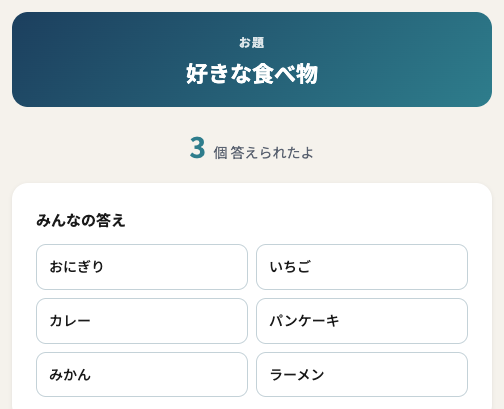
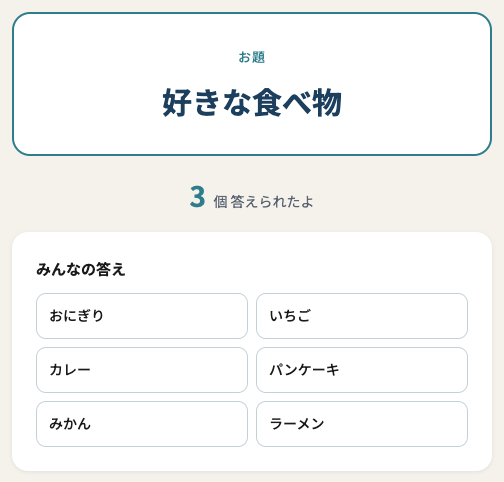
style: お題表示に合わせてサムネイルを更新

diff --git a/apps/index.html b/apps/index.html
@@ -551,7 +551,7 @@
         <a class="app-card" href="kotoba-mikke/" data-scenes="kotoba hiroba circle">
           <div class="app-card__icon">
             <span class="material-symbols-rounded" aria-hidden="true">search</span>
-            <img class="app-card__thumbnail" src="assets/thumbnails/kotoba-mikke.png" alt="頭文字とテーマを組み合わせたお題" width="544" height="217" loading="lazy" decoding="async" />
+            <img class="app-card__thumbnail" src="assets/thumbnails/kotoba-mikke.png" alt="頭文字とテーマを組み合わせたお題" width="544" height="255" loading="lazy" decoding="async" />
           </div>
           <div class="app-card__body">
             <div class="app-card__name">ことばみっけ</div>
@@ -603,7 +603,7 @@
         <a class="app-card" href="tatoe-gp/" data-slides data-scenes="kotoba bodoge">
           <div class="app-card__icon">
             <span class="material-symbols-rounded" aria-hidden="true">emoji_objects</span>
-            <img class="app-card__thumbnail" src="assets/thumbnails/tatoe-gp.png" alt="お題をたとえた回答を選ぶ投票画面" width="504" height="534" loading="lazy" decoding="async" />
+            <img class="app-card__thumbnail" src="assets/thumbnails/tatoe-gp.png" alt="お題をたとえた回答を選ぶ投票画面" width="504" height="600" loading="lazy" decoding="async" />
           </div>
           <div class="app-card__body">
             <div class="app-card__name">たとえグランプリ</div>
@@ -733,7 +733,7 @@
         <a class="app-card" href="toomawashi/" data-scenes="kotoba">
           <div class="app-card__icon">
             <span class="material-symbols-rounded" aria-hidden="true">record_voice_over</span>
-            <img class="app-card__thumbnail" src="assets/thumbnails/toomawashi.png" alt="説明するお題と言っちゃダメことば" width="504" height="470" loading="lazy" decoding="async" />
+            <img class="app-card__thumbnail" src="assets/thumbnails/toomawashi.png" alt="説明するお題と言っちゃダメことば" width="504" height="496" loading="lazy" decoding="async" />
           </div>
           <div class="app-card__body">
             <div class="app-card__name">とおまわしクイズ</div>
@@ -1047,7 +1047,7 @@
         <a class="app-card" href="tatoe-narabe/" data-slides data-scenes="kotoba bodoge circle sakusen">
           <div class="app-card__icon">
             <span class="material-symbols-rounded" aria-hidden="true">filter_1</span>
-            <img class="app-card__thumbnail" src="assets/thumbnails/tatoe-narabe.png" alt="お題と自分の数字、宣言した順番" width="464" height="411" loading="lazy" decoding="async" />
+            <img class="app-card__thumbnail" src="assets/thumbnails/tatoe-narabe.png" alt="お題と自分の数字、宣言した順番" width="464" height="451" loading="lazy" decoding="async" />
           </div>
           <div class="app-card__body">
             <div class="app-card__name">たとえならべ</div>
@@ -1073,7 +1073,7 @@
         <a class="app-card" href="ishin-denshin/" data-scenes="circle hiroba">
           <div class="app-card__icon">
             <span class="material-symbols-rounded" aria-hidden="true">lightbulb</span>
-            <img class="app-card__thumbnail" src="assets/thumbnails/ishin-denshin.png" alt="みんなとかぶらない回答を考えるお題" width="844" height="377" loading="lazy" decoding="async" />
+            <img class="app-card__thumbnail" src="assets/thumbnails/ishin-denshin.png" alt="みんなとかぶらない回答を考えるお題" width="844" height="455" loading="lazy" decoding="async" />
           </div>
           <div class="app-card__body">
             <div class="app-card__name">以心伝心しないゲーム</div>
@@ -1099,7 +1099,7 @@
         <a class="app-card" href="uso-jisho/" data-slides data-scenes="bodoge">
           <div class="app-card__icon">
             <span class="material-symbols-rounded" aria-hidden="true">auto_stories</span>
-            <img class="app-card__thumbnail" src="assets/thumbnails/uso-jisho.png" alt="言葉の本当の意味を当てる選択肢" width="504" height="560" loading="lazy" decoding="async" />
+            <img class="app-card__thumbnail" src="assets/thumbnails/uso-jisho.png" alt="言葉の本当の意味を当てる選択肢" width="504" height="610" loading="lazy" decoding="async" />
           </div>
           <div class="app-card__body">
             <div class="app-card__name">うそつき辞書</div>
@@ -1333,7 +1333,7 @@
         <a class="app-card" href="minna-ranking/" data-scenes="hiroba sakusen">
           <div class="app-card__icon">
             <span class="material-symbols-rounded" aria-hidden="true">format_list_numbered</span>
-            <img class="app-card__thumbnail" src="assets/thumbnails/minna-ranking.png" alt="お題のアイテムを並べ替えるランキング" width="704" height="314" loading="lazy" decoding="async" />
+            <img class="app-card__thumbnail" src="assets/thumbnails/minna-ranking.png" alt="お題のアイテムを並べ替えるランキング" width="704" height="394" loading="lazy" decoding="async" />
           </div>
           <div class="app-card__body">
             <div class="app-card__name">みんなでランキング</div>
@@ -1437,7 +1437,7 @@
         <a class="app-card" href="ikutsu-ieru/" data-scenes="circle hiroba sakusen">
           <div class="app-card__icon">
             <span class="material-symbols-rounded" aria-hidden="true">format_list_numbered</span>
-            <img class="app-card__thumbnail" src="assets/thumbnails/ikutsu-ieru.png" alt="お題に思いついた答えを並べた見本" width="504" height="409" loading="lazy" decoding="async" />
+            <img class="app-card__thumbnail" src="assets/thumbnails/ikutsu-ieru.png" alt="お題に思いついた答えを並べた見本" width="504" height="482" loading="lazy" decoding="async" />
           </div>
           <div class="app-card__body">
             <div class="app-card__name">いくつ言える？</div>

diff --git a/docs/development/thumbnails.md b/docs/development/thumbnails.md
@@ -2,6 +2,9 @@
 
 一覧の実装は `apps/index.html`、画像は `apps/assets/thumbnails/{app}.png`。
 2026-09-17に全40ツールへ追加。撮影元はコミット `b98a6d7` の各アプリ。
+2026-09-24にお題表示の統一（`eeb3055`）に合わせて ishin-denshin・ikutsu-ieru・kotoba-mikke・minna-ranking・tatoe-narabe・uso-jisho・tatoe-gp・toomawashi の8枚を撮り直した。
+do-mannaka は結果画面、kaburazu-hint は回答画面を写しており、今回変更したお題カードは写っていないため、画像を維持した。
+Firebase を止めるときは SDK の読み込みと認証・データ用のドメインだけを遮断する。`googleapis.com` 全体を遮断すると Google Fonts も止まり、アイコンが文字のまま写る。
 
 ## 表示と更新
 
